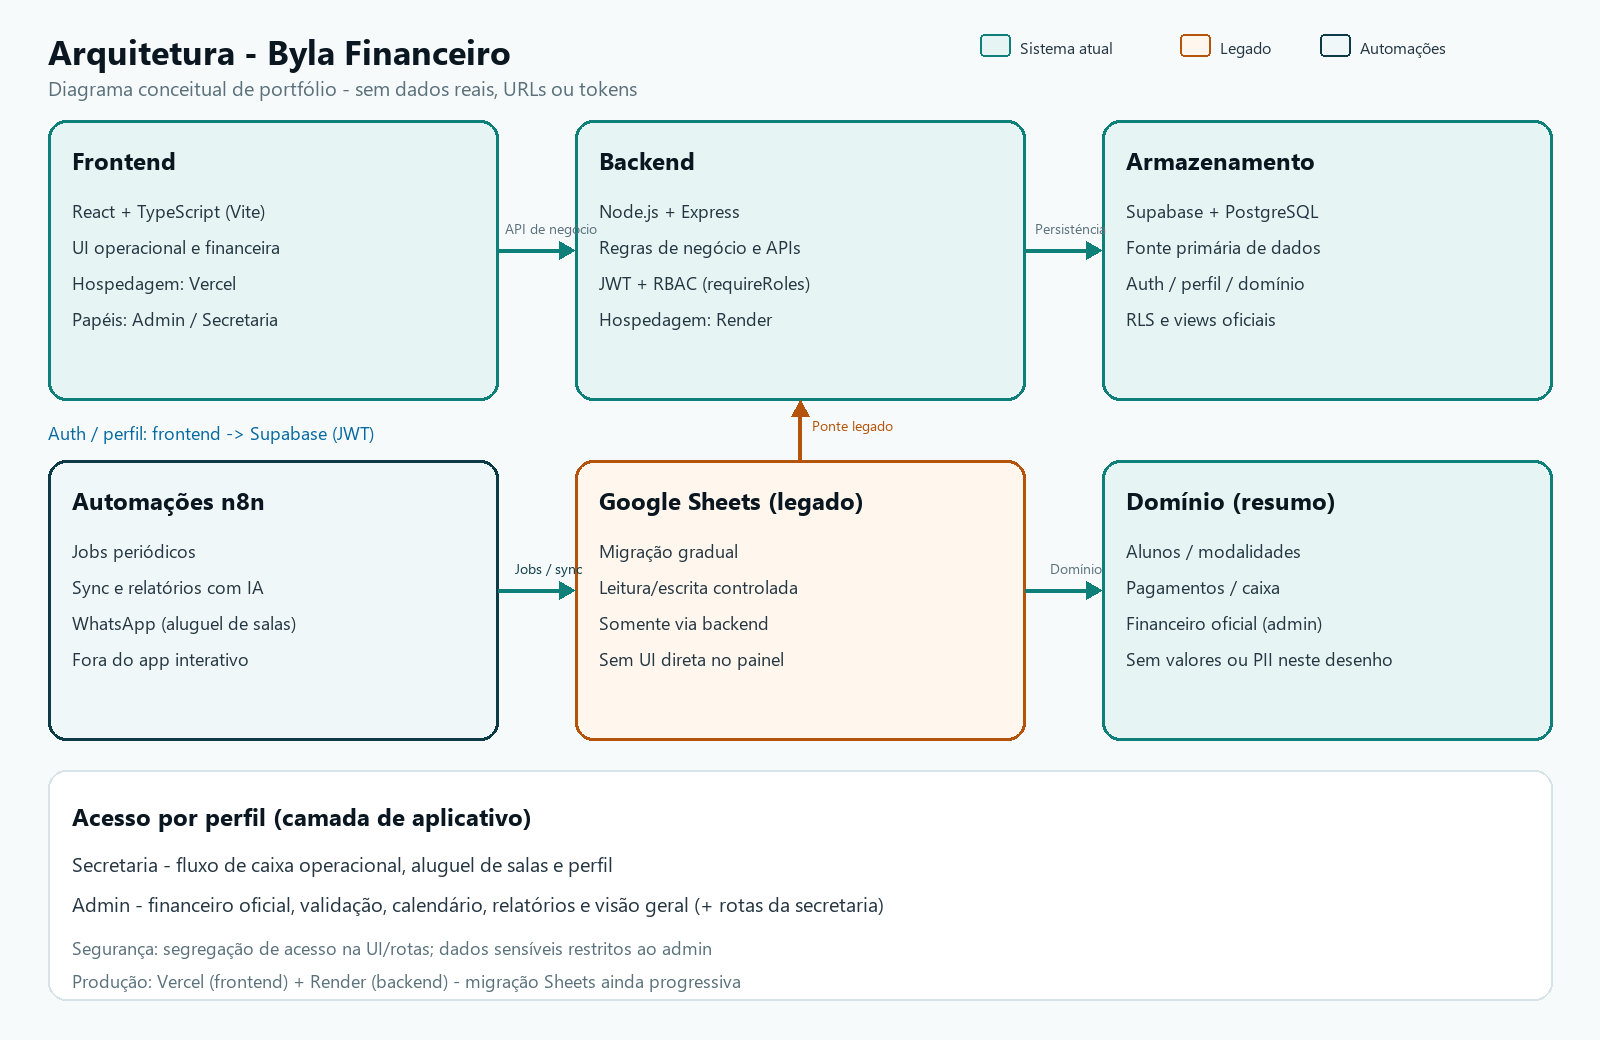
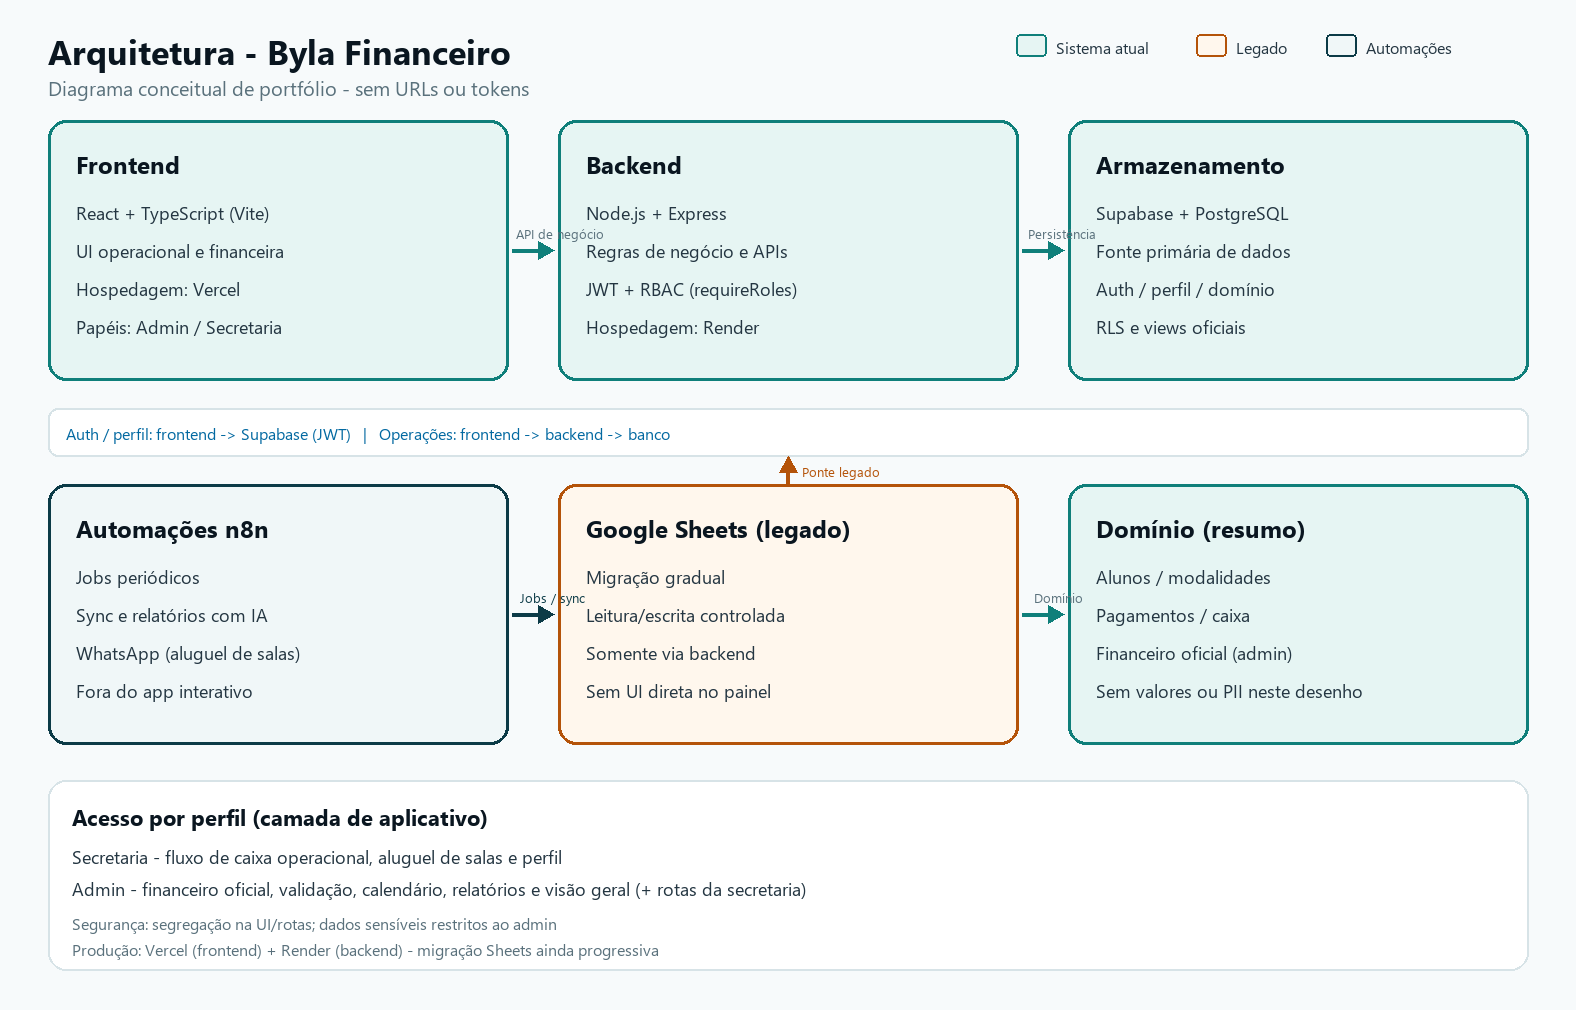
Fix Byla architecture diagram layout and trim caption phrases.

diff --git a/scripts/generate_byla_diagrams.py b/scripts/generate_byla_diagrams.py
@@ -61,27 +61,65 @@ def card(draw, x, y, w, h, fill, outline, title, lines):
 
 
 def make_arquitetura():
-    img = Image.new("RGB", (1600, 1040), "#f7fafb")
+    # Grade 3 colunas alinhadas; altura do card = padding + conteudo
+    col_w = 460
+    gap = 50
+    left = 48
+    cols = [left, left + col_w + gap, left + 2 * (col_w + gap)]
+    pad = 28
+    line_h = 38
+    title_block = 52
+
+    def card_h(n):
+        return pad + title_block + n * line_h + pad
+
+    def draw_card(d, x, y, w, h, fill, outline, title, lines):
+        box(d, (x, y, x + w, y + h), fill, outline)
+        put(d, (x + pad, y + pad), title, font(24, True))
+        yy = y + pad + title_block
+        for line in lines:
+            put(d, (x + pad, yy), line, font(18), "#243642")
+            yy += line_h
+
+    row1_y = 120
+    h1 = card_h(4)
+    auth_band_h = 48
+    row2_y = row1_y + h1 + 28 + auth_band_h + 28
+    h2 = card_h(4)
+    footer_y = row2_y + h2 + 36
+    footer_h = 190
+    W = cols[2] + col_w + 48
+    H = footer_y + footer_h + 40
+
+    img = Image.new("RGB", (W, H), "#f7fafb")
     d = ImageDraw.Draw(img)
 
     put(d, (48, 28), "Arquitetura - Byla Financeiro", font(34, True))
     put(
         d,
         (48, 74),
-        f"Diagrama conceitual de portf{o}lio - sem dados reais, URLs ou tokens",
+        f"Diagrama conceitual de portf{o}lio - sem URLs ou tokens",
         font(20),
         "#5a717c",
     )
 
-    box(d, (980, 34, 1010, 56), "#e6f5f3", "#0f7f7a", 2, 4)
-    put(d, (1020, 36), "Sistema atual", font(16), "#243642")
-    box(d, (1180, 34, 1210, 56), "#fff7ed", "#b45309", 2, 4)
-    put(d, (1220, 36), "Legado", font(16), "#243642")
-    box(d, (1320, 34, 1350, 56), "#f0f7f8", "#0c3b47", 2, 4)
-    put(d, (1360, 36), f"Automa{c}{ot}es", font(16), "#243642")
+    lx = W - 560
+    box(d, (lx, 34, lx + 30, 56), "#e6f5f3", "#0f7f7a", 2, 4)
+    put(d, (lx + 40, 36), "Sistema atual", font(16), "#243642")
+    box(d, (lx + 180, 34, lx + 210, 56), "#fff7ed", "#b45309", 2, 4)
+    put(d, (lx + 220, 36), "Legado", font(16), "#243642")
+    box(d, (lx + 310, 34, lx + 340, 56), "#f0f7f8", "#0c3b47", 2, 4)
+    put(d, (lx + 350, 36), f"Automa{c}{ot}es", font(16), "#243642")
 
-    card(
-        d, 48, 120, 450, 280, "#e6f5f3", "#0f7f7a", "Frontend",
+    draw_card(
+        d,
+        cols[0],
+        row1_y,
+        col_w,
+        h1,
+        "#e6f5f3",
+        "#0f7f7a",
+        "Frontend",
         [
             "React + TypeScript (Vite)",
             "UI operacional e financeira",
@@ -89,8 +127,15 @@ def make_arquitetura():
             f"Pap{e}is: Admin / Secretaria",
         ],
     )
-    card(
-        d, 575, 120, 450, 280, "#e6f5f3", "#0f7f7a", "Backend",
+    draw_card(
+        d,
+        cols[1],
+        row1_y,
+        col_w,
+        h1,
+        "#e6f5f3",
+        "#0f7f7a",
+        "Backend",
         [
             "Node.js + Express",
             f"Regras de neg{o}cio e APIs",
@@ -98,8 +143,15 @@ def make_arquitetura():
             "Hospedagem: Render",
         ],
     )
-    card(
-        d, 1102, 120, 450, 280, "#e6f5f3", "#0f7f7a", "Armazenamento",
+    draw_card(
+        d,
+        cols[2],
+        row1_y,
+        col_w,
+        h1,
+        "#e6f5f3",
+        "#0f7f7a",
+        "Armazenamento",
         [
             "Supabase + PostgreSQL",
             f"Fonte prim{a}ria de dados",
@@ -107,14 +159,39 @@ def make_arquitetura():
             "RLS e views oficiais",
         ],
     )
-    arrow_h(d, 498, 250, 575)
-    put(d, (505, 218), f"API de neg{o}cio", font(14), "#5a717c")
-    arrow_h(d, 1025, 250, 1102)
-    put(d, (1035, 218), f"Persist{e}ncia", font(14), "#5a717c")
-    put(d, (48, 420), "Auth / perfil: frontend -> Supabase (JWT)", font(18), "#0369a1")
 
-    card(
-        d, 48, 460, 450, 280, "#f0f7f8", "#0c3b47", f"Automa{c}{ot}es n8n",
+    mid_y = row1_y + h1 // 2
+    arrow_h(d, cols[0] + col_w + 4, mid_y, cols[1] - 4)
+    put(d, (cols[0] + col_w + 8, mid_y - 26), f"API de neg{o}cio", font(13), "#5a717c")
+    arrow_h(d, cols[1] + col_w + 4, mid_y, cols[2] - 4)
+    put(d, (cols[1] + col_w + 10, mid_y - 26), f"Persist{e}ncia", font(13), "#5a717c")
+
+    auth_y = row1_y + h1 + 28
+    box(
+        d,
+        (cols[0], auth_y, cols[2] + col_w, auth_y + auth_band_h),
+        "#ffffff",
+        "#d7e3e7",
+        2,
+        10,
+    )
+    put(
+        d,
+        (cols[0] + 18, auth_y + 14),
+        f"Auth / perfil: frontend -> Supabase (JWT)   |   Opera{c}{ot}es: frontend -> backend -> banco",
+        font(16),
+        "#0369a1",
+    )
+
+    draw_card(
+        d,
+        cols[0],
+        row2_y,
+        col_w,
+        h2,
+        "#f0f7f8",
+        "#0c3b47",
+        f"Automa{c}{ot}es n8n",
         [
             f"Jobs peri{o}dicos",
             f"Sync e relat{o}rios com IA",
@@ -122,8 +199,15 @@ def make_arquitetura():
             "Fora do app interativo",
         ],
     )
-    card(
-        d, 575, 460, 450, 280, "#fff7ed", "#b45309", "Google Sheets (legado)",
+    draw_card(
+        d,
+        cols[1],
+        row2_y,
+        col_w,
+        h2,
+        "#fff7ed",
+        "#b45309",
+        "Google Sheets (legado)",
         [
             f"Migra{c}{at}o gradual",
             "Leitura/escrita controlada",
@@ -131,8 +215,15 @@ def make_arquitetura():
             "Sem UI direta no painel",
         ],
     )
-    card(
-        d, 1102, 460, 450, 280, "#e6f5f3", "#0f7f7a", f"Dom{i}nio (resumo)",
+    draw_card(
+        d,
+        cols[2],
+        row2_y,
+        col_w,
+        h2,
+        "#e6f5f3",
+        "#0f7f7a",
+        f"Dom{i}nio (resumo)",
         [
             "Alunos / modalidades",
             "Pagamentos / caixa",
@@ -140,41 +231,44 @@ def make_arquitetura():
             "Sem valores ou PII neste desenho",
         ],
     )
-    arrow_h(d, 498, 590, 575)
-    put(d, (515, 558), "Jobs / sync", font(14), "#0c3b47")
-    arrow_up(d, 800, 460, 400)
-    put(d, (812, 415), "Ponte legado", font(14), "#b45309")
-    arrow_h(d, 1025, 590, 1102)
-    put(d, (1050, 558), f"Dom{i}nio", font(14), "#5a717c")
 
-    box(d, (48, 770, 1552, 1000), "#ffffff", "#d7e3e7", 2)
-    put(d, (72, 800), "Acesso por perfil (camada de aplicativo)", font(24, True))
+    mid2 = row2_y + h2 // 2
+    arrow_h(d, cols[0] + col_w + 4, mid2, cols[1] - 4, "#0c3b47")
+    put(d, (cols[0] + col_w + 12, mid2 - 26), "Jobs / sync", font(13), "#0c3b47")
+    bridge_x = cols[1] + col_w // 2
+    arrow_up(d, bridge_x, row2_y, auth_y + auth_band_h)
+    put(d, (bridge_x + 14, row2_y - 22), "Ponte legado", font(13), "#b45309")
+    arrow_h(d, cols[1] + col_w + 4, mid2, cols[2] - 4)
+    put(d, (cols[1] + col_w + 16, mid2 - 26), f"Dom{i}nio", font(13), "#5a717c")
+
+    box(d, (48, footer_y, W - 48, footer_y + footer_h), "#ffffff", "#d7e3e7", 2)
+    put(d, (72, footer_y + 22), "Acesso por perfil (camada de aplicativo)", font(22, True))
     put(
         d,
-        (72, 850),
+        (72, footer_y + 64),
         "Secretaria - fluxo de caixa operacional, aluguel de salas e perfil",
-        font(20),
-        "#243642",
-    )
-    put(
-        d,
-        (72, 890),
-        f"Admin - financeiro oficial, valida{c}{at}o, calend{a}rio, relat{o}rios e vis{at}o geral (+ rotas da secretaria)",
-        font(20),
-        "#243642",
-    )
-    put(
-        d,
-        (72, 935),
-        f"Seguran{c}a: segrega{c}{at}o de acesso na UI/rotas; dados sens{i}veis restritos ao admin",
         font(18),
+        "#243642",
+    )
+    put(
+        d,
+        (72, footer_y + 96),
+        f"Admin - financeiro oficial, valida{c}{at}o, calend{a}rio, relat{o}rios e vis{at}o geral (+ rotas da secretaria)",
+        font(18),
+        "#243642",
+    )
+    put(
+        d,
+        (72, footer_y + 132),
+        f"Seguran{c}a: segrega{c}{at}o na UI/rotas; dados sens{i}veis restritos ao admin",
+        font(16),
         "#5a717c",
     )
     put(
         d,
-        (72, 968),
+        (72, footer_y + 158),
         f"Produ{c}{at}o: Vercel (frontend) + Render (backend) - migra{c}{at}o Sheets ainda progressiva",
-        font(18),
+        font(16),
         "#5a717c",
     )
     save(img, "byla-arquitetura.png")
@@ -209,7 +303,7 @@ def make_migracao():
     bullets = [
         f"Reaproveitamento de parsers e regras j{a} usadas na planilha (alunos, modalidades, pagamentos, caixa).",
         f"Conviv{e}ncia controlada entre planilha e sistema at{e} a equipe consolidar o uso do painel.",
-        f"Migra{c}{at}o progressiva: n{at}o {e} big bang e ainda n{at}o est{a} 100% conclu{i}da.",
+        f"Migra{c}{at}o progressiva: ainda n{at}o est{a} 100% conclu{i}da.",
         f"Seguran{c}a: a secretaria n{at}o v{e} o extrato oficial; o admin acessa o financeiro completo.",
     ]
     yy = 560
@@ -285,7 +379,6 @@ def make_rbac():
         put(d, (x1 + 20, y + 12), lab, font(18))
 
     put(d, (864, 600), "VALIDACAO E RELATORIOS", font(16, True), "#5a717c")
-    # titulo com acentos corretos
     d.rectangle([864, 590, 1528, 630], fill="#ffffff")
     put(d, (864, 600), "VALIDA" + "\u00c7\u00c3O E RELAT\u00d3RIOS", font(16, True), "#5a717c")
 
